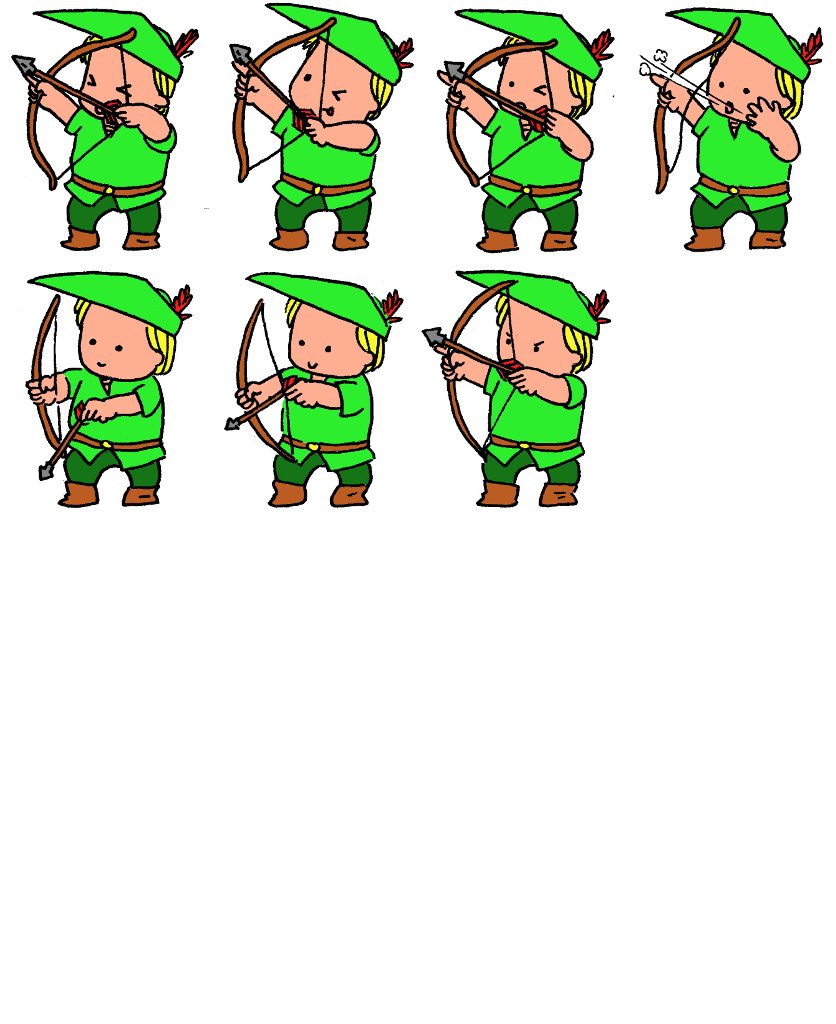
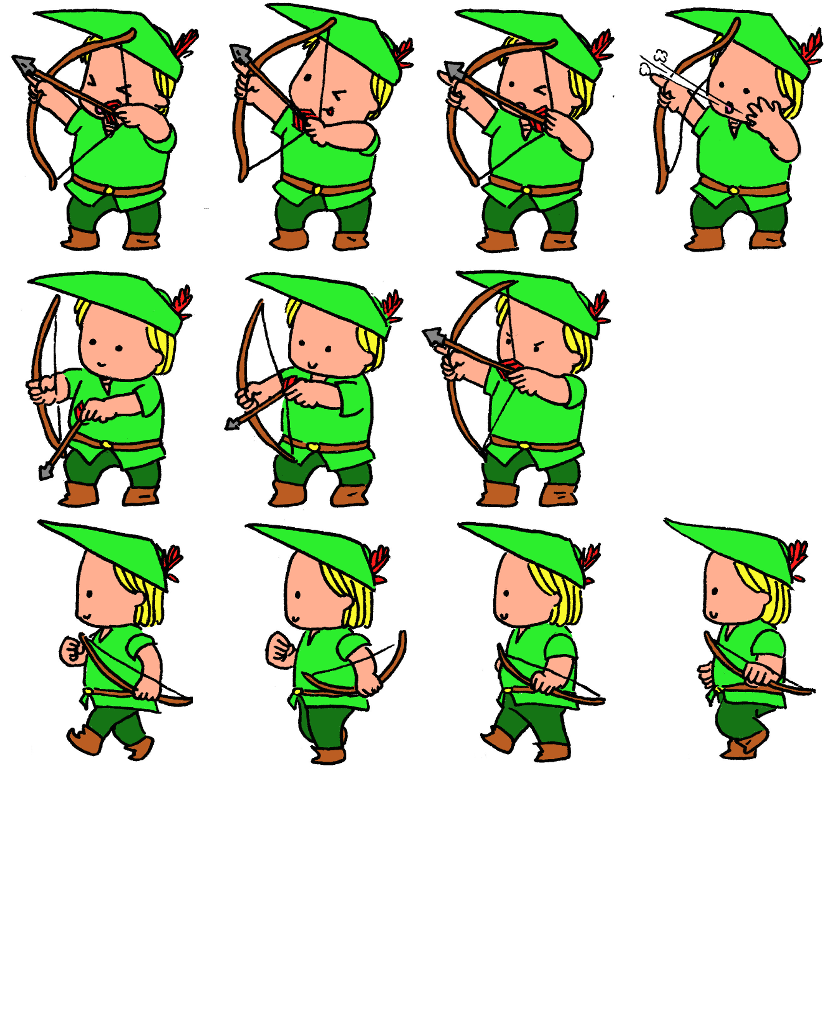
move Animationen eingebaut

diff --git a/core/src/de/potoopirate/arena/unit/Knight.java b/core/src/de/potoopirate/arena/unit/Knight.java
@@ -29,6 +29,15 @@ public class Knight extends Unit {
 
 		mFightAnimation = new Animation(0.25f, mFightFrames);
 		mFightAnimation.setPlayMode(PlayMode.NORMAL);
+		
+		mMoveFrames = new TextureRegion[4];
+		System.out.println("mage2: "+ ResourceLoader.KNIGHT[2].length);
+		
+		for (int i = 0; i < ResourceLoader.KNIGHT[2].length; i++) {
+			mMoveFrames[i] = ResourceLoader.KNIGHT[2][i];
+		}
+		mMoveAnimation = new Animation(0.25f, mMoveFrames);
+		mMoveAnimation.setPlayMode(PlayMode.LOOP);
 	}
 
 	@Override

diff --git a/core/src/de/potoopirate/arena/unit/Mage.java b/core/src/de/potoopirate/arena/unit/Mage.java
@@ -29,6 +29,15 @@ public class Mage extends Unit {
 
 		mFightAnimation = new Animation(0.25f, mFightFrames);
 		mFightAnimation.setPlayMode(PlayMode.NORMAL);
+		
+		mMoveFrames = new TextureRegion[4];
+		System.out.println("mage2: "+ ResourceLoader.MAGE[2].length);
+		
+		for (int i = 0; i < ResourceLoader.MAGE[2].length; i++) {
+			mMoveFrames[i] = ResourceLoader.MAGE[2][i];
+		}
+		mMoveAnimation = new Animation(0.25f, mMoveFrames);
+		mMoveAnimation.setPlayMode(PlayMode.LOOP);
 	}
 
 	@Override

diff --git a/core/src/de/potoopirate/arena/unit/Archer.java b/core/src/de/potoopirate/arena/unit/Archer.java
@@ -30,6 +30,15 @@ public class Archer extends Unit {
 
 		mFightAnimation = new Animation(0.25f, mFightFrames);
 		mFightAnimation.setPlayMode(PlayMode.NORMAL);
+		
+		mMoveFrames = new TextureRegion[4];
+		System.out.println("mage2: "+ ResourceLoader.ARCHER[2].length);
+		
+		for (int i = 0; i < ResourceLoader.ARCHER[2].length; i++) {
+			mMoveFrames[i] = ResourceLoader.ARCHER[2][i];
+		}
+		mMoveAnimation = new Animation(0.25f, mMoveFrames);
+		mMoveAnimation.setPlayMode(PlayMode.LOOP);
 
 	}
 
